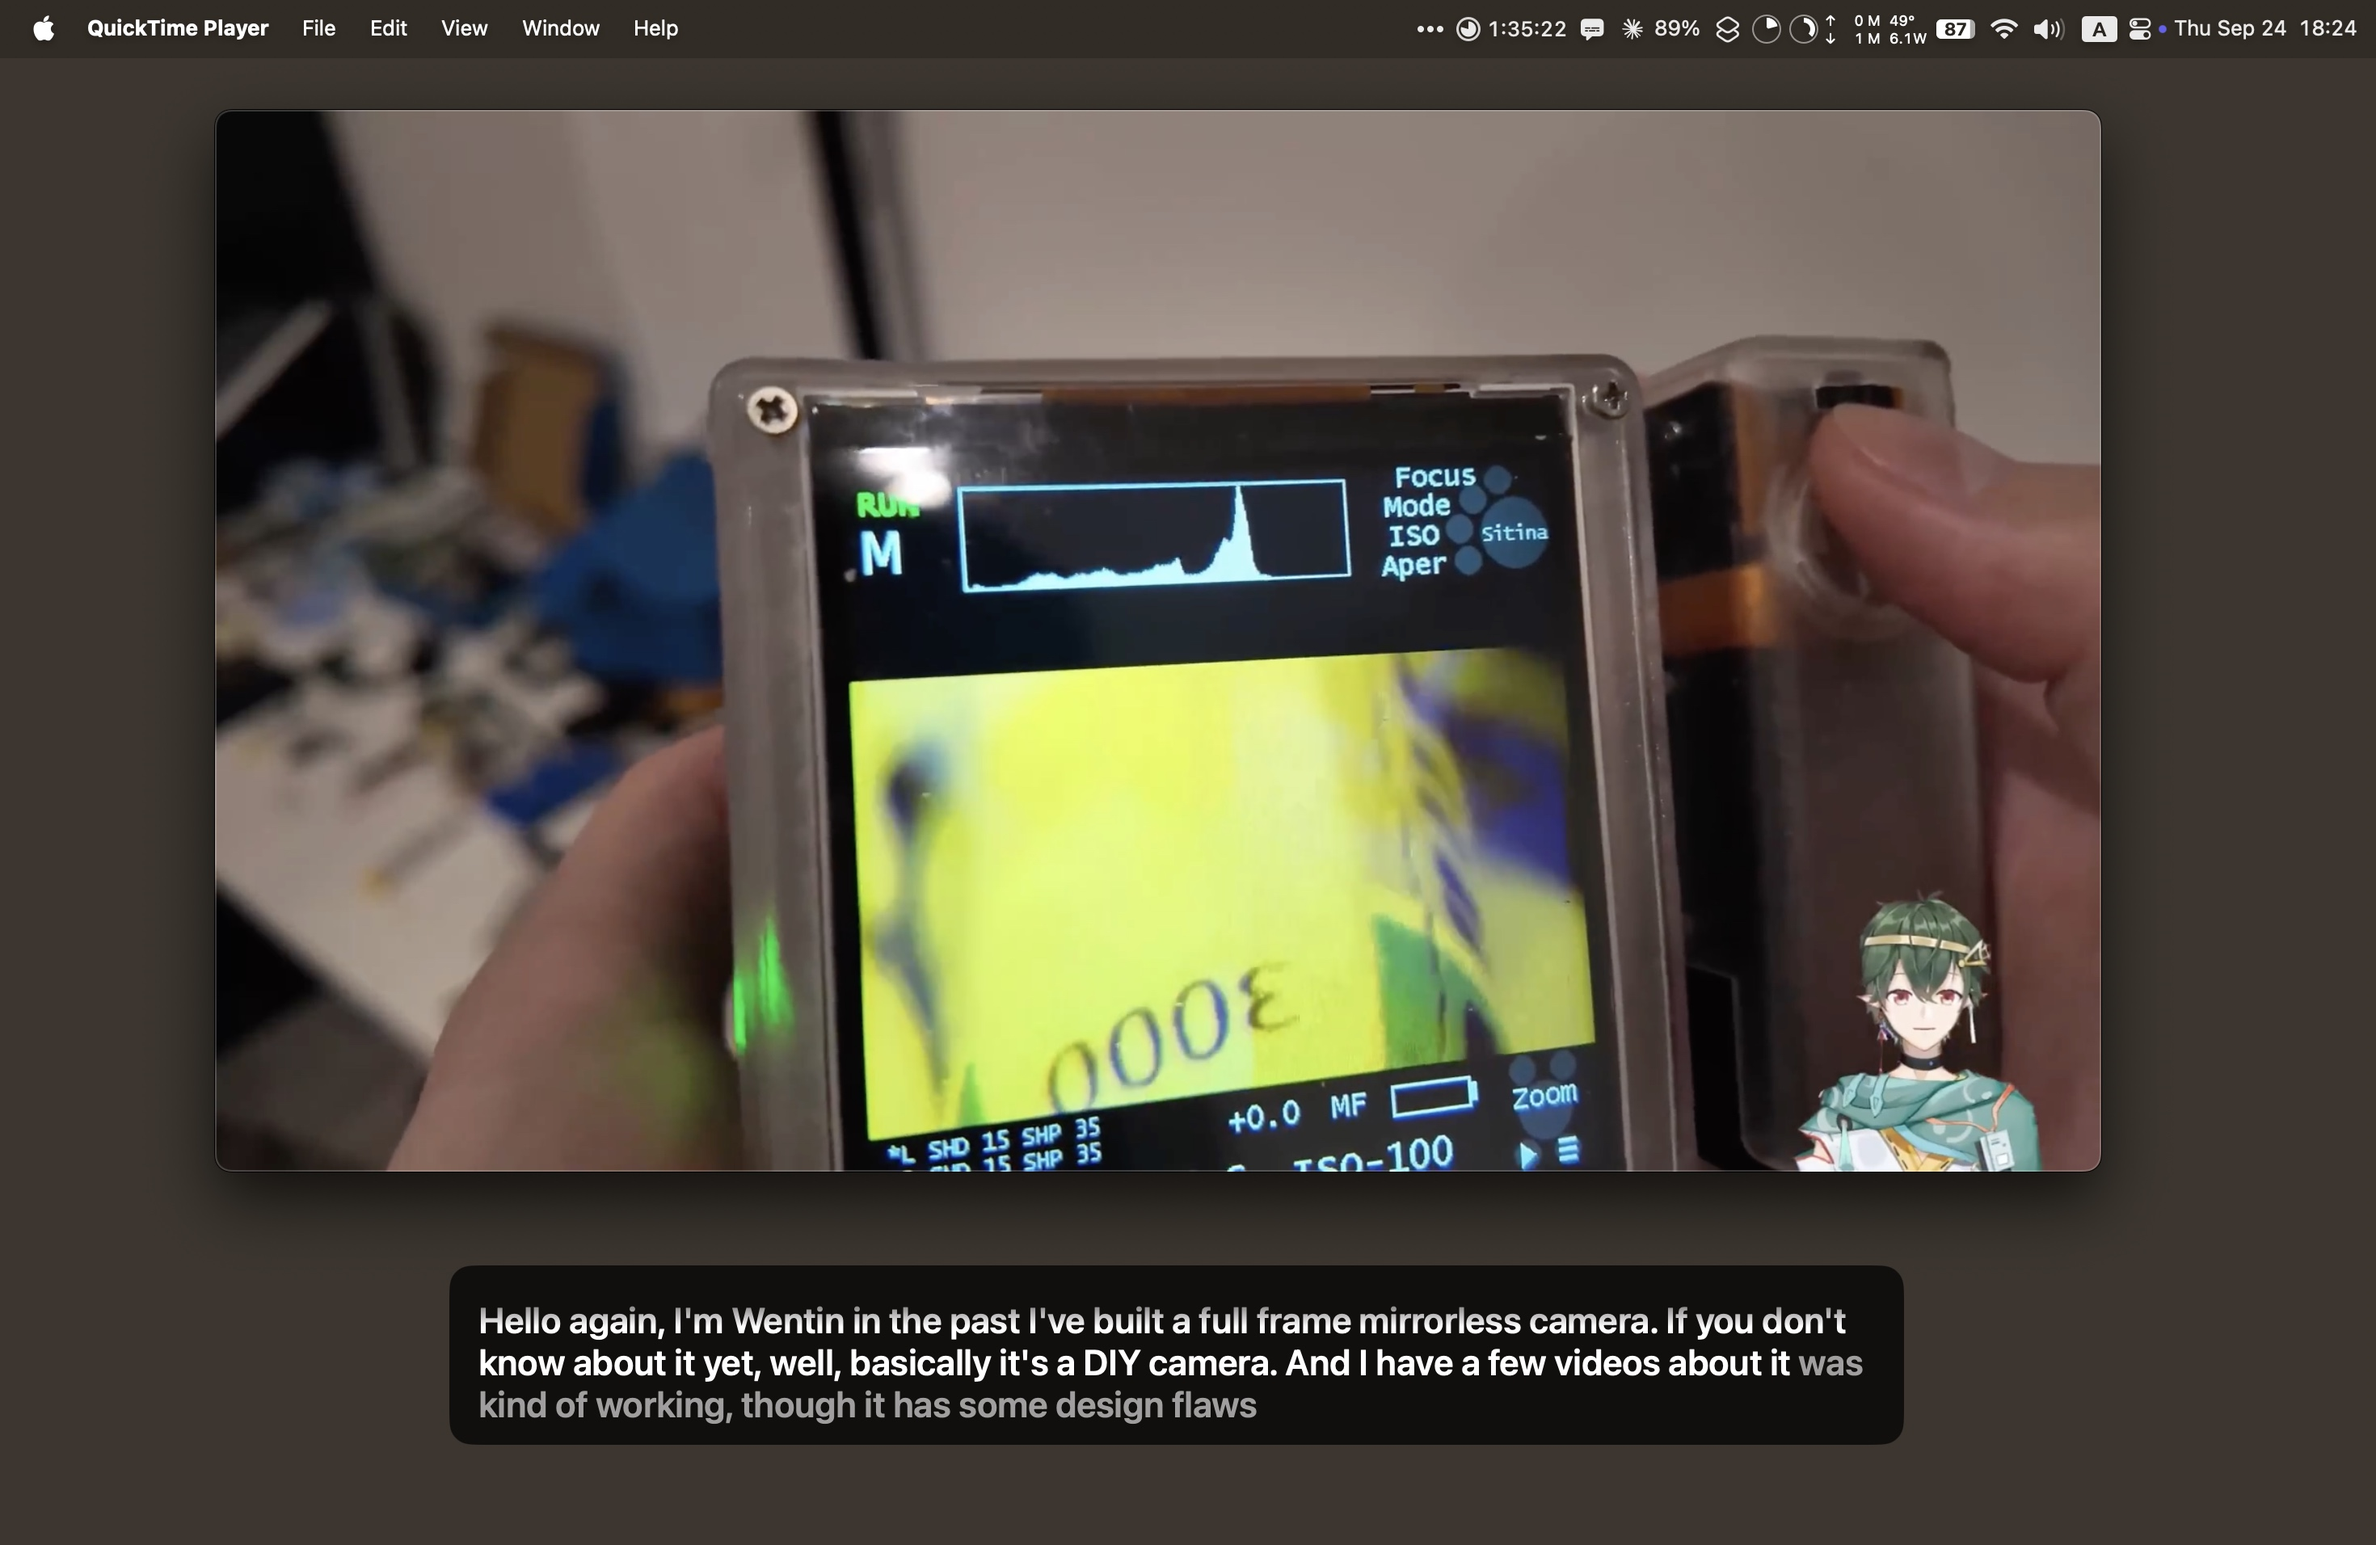
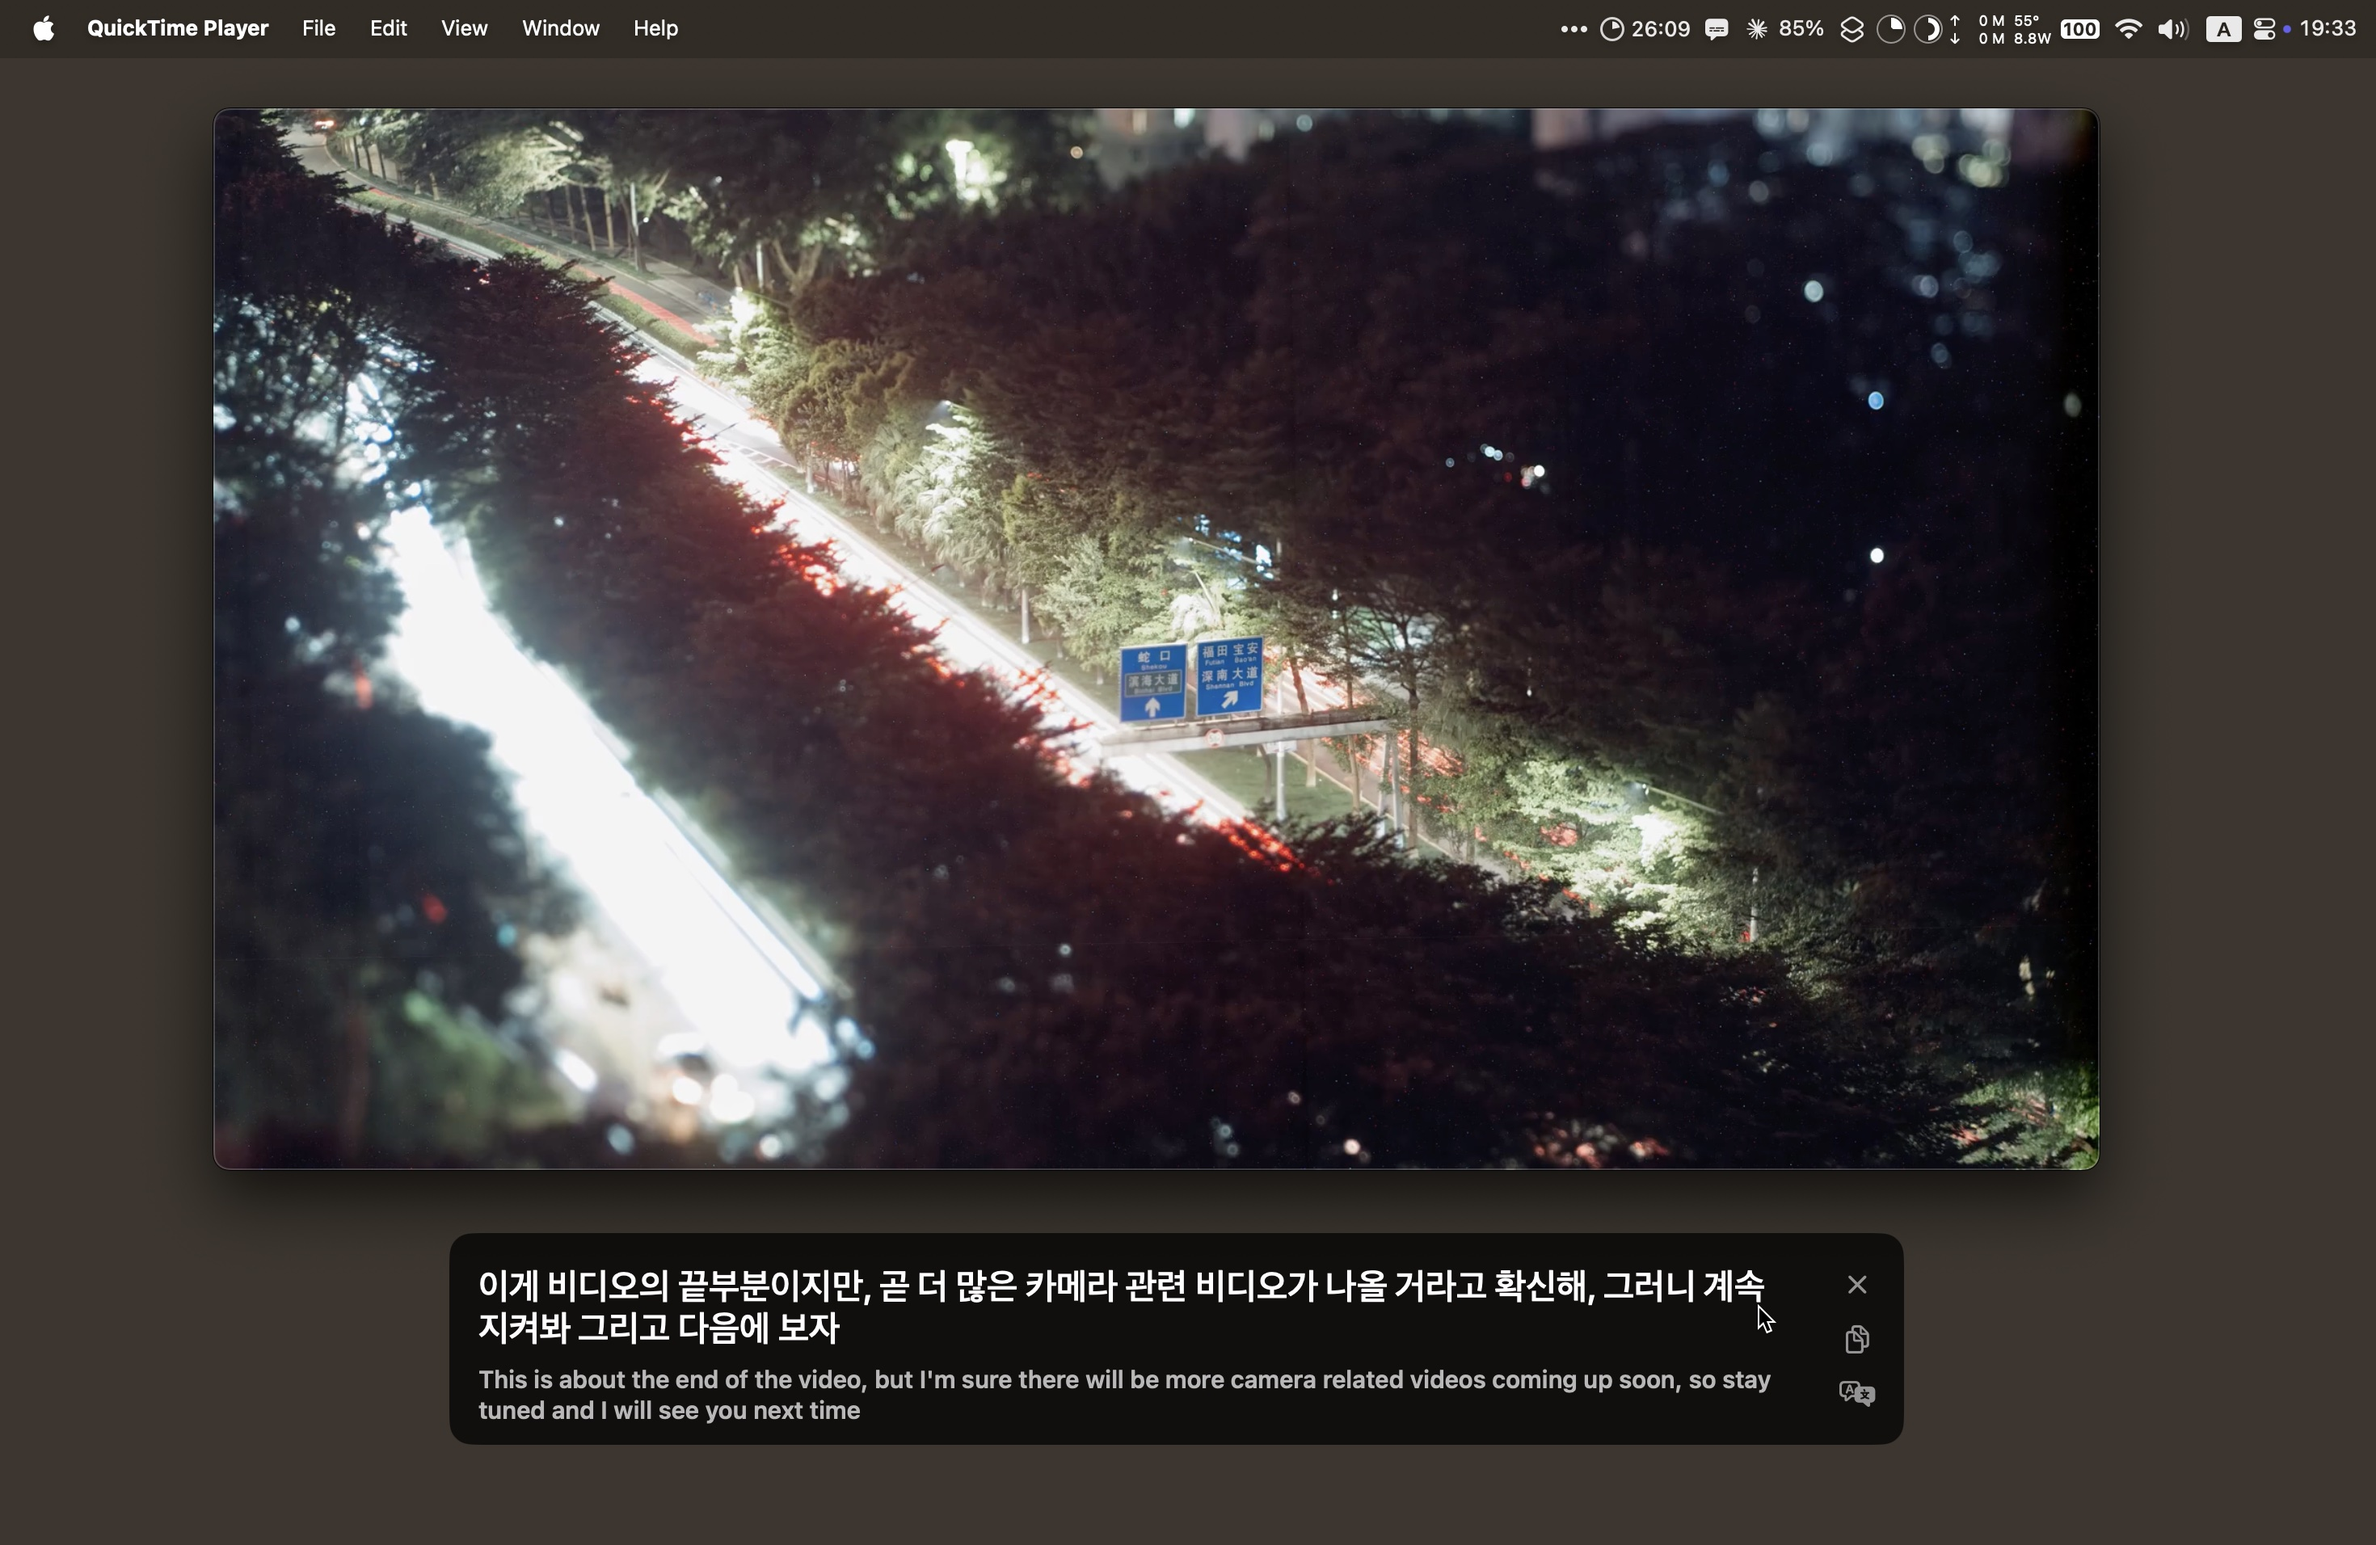
README: translation, and a new screenshot; translate the new strings

diff --git a/README.md b/README.md
@@ -2,19 +2,24 @@
 
 Live captions for everything your Mac plays: videos, calls, podcasts. Korean,
 Japanese, English and about 30 more languages, detected on their own. Speech
-recognition runs entirely on your Mac's Neural Engine; no audio or text
+recognition runs entirely on your Mac's Neural Engine, and captions can be
+translated into about 20 languages, on your Mac too; no audio or text
 leaves it.
 
 **[Download](https://github.com/LPFchan/Parakeet/releases/latest/download/Parakeet.dmg)** · Apple silicon, macOS 15+
 
-![Parakeet captioning a video in QuickTime Player](.github/screenshot.jpg)
+![Parakeet captioning a video in QuickTime Player and translating it into Korean](.github/screenshot.jpg)
 
 ## Using it
 
 - Captions appear in a floating box whenever something speaks. Drag it
   anywhere; it remembers where. New words type in and scroll up line by line.
+  Hovering over it shows buttons to turn captions off, copy the transcript,
+  and pick a language to translate into.
+- With a language picked, the translation shows large and the original
+  small underneath. macOS asks once to download each language it needs.
 - The menu bar icon has a Captions on/off switch (⌘L), Copy Transcript,
-  Open at Login and Check for Updates. It checks for updates on every launch
+  Translate To, Open at Login and Check for Updates. It checks for updates on every launch
   (and daily while running) and offers to install them.
 - The same switch works from a terminal:
 
@@ -37,13 +42,18 @@ audio permission and downloads the speech model (~640 MB) from Hugging Face.
   [Nemotron 3.5 ASR](https://huggingface.co/nvidia/nemotron-3.5-asr-streaming-0.6b)
   (via [FluidAudio](https://github.com/FluidInference/FluidAudio)'s Core ML
   build). Each 0.56 s of sound is processed once and words are never
-  rewritten, so it uses ~10% of one CPU core. Text locks in after ~1 s
-  without new words. When nothing is playing, the model isn't run at all.
+  rewritten, so it uses ~10% of one CPU core. For the same reason a sentence
+  locks in as soon as its full stop appears; one that runs on locks at a
+  comma (~3 s) or any word (~5 s). When nothing is playing, the model isn't
+  run at all.
   Measured on an M2 with [macmon](https://github.com/vladkens/macmon): the
   speech model draws about 0.12 W while captioning (~40 mW CPU, ~80 mW
   Neural Engine), and Parakeet idles at ~1 mW when nothing is playing.
 - `CaptionPanel.swift` draws the captions. Only a scroll offset is animated;
-  animating the text itself cost ~90% CPU.
+  animating the text itself cost ~90% CPU. Its `Translator` hands locked text
+  to Apple's Translation framework, naming the source language itself
+  (`NaturalLanguage` detects it) so macOS doesn't stop to ask. Pieces of an
+  unfinished sentence are re-translated together, shown dim until it ends.
 
 ## Development
 
